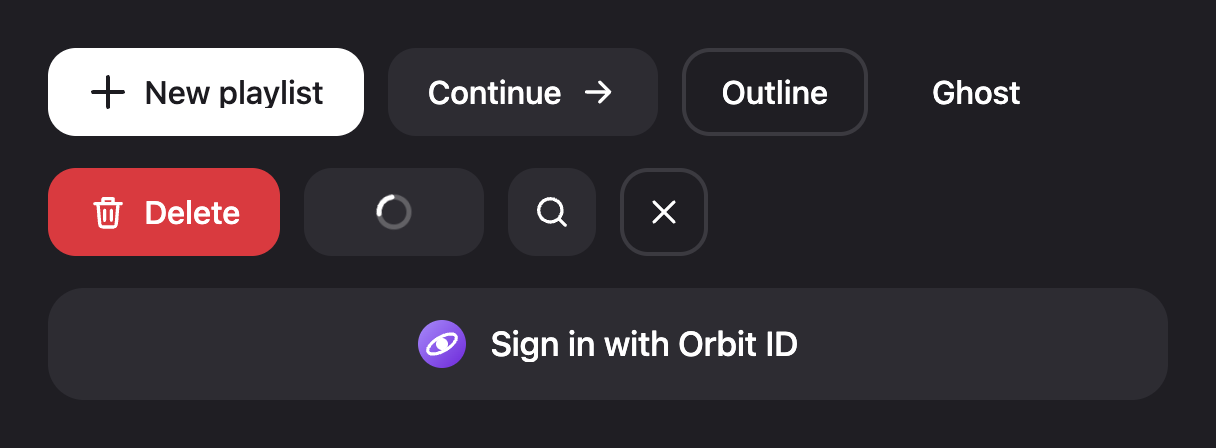
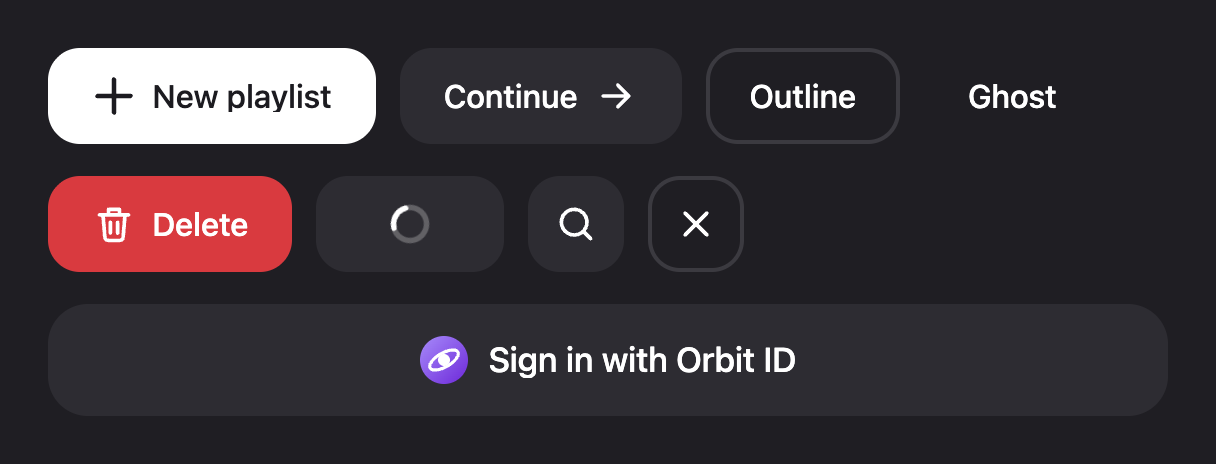
Unify control sizes on one scale
Inputs, buttons and segmented controls of the same size had different
heights and radii (48, 44 and 40px at md), so they did not line up in
a row. All three now follow the Input scale: 40, 48 and 56px with 12,
16 and 20px radii and matching icon sizes. Code cells get round heights,
the smallest secondary text is raised to 14px, and the default skeleton
radius matches other surfaces. The scale is documented on the theming
page with a Sizing example.

diff --git a/src/docs/Sizing.stories.tsx b/src/docs/Sizing.stories.tsx
@@ -1,0 +1,47 @@
+import type { Meta, StoryObj } from '@storybook/react-vite';
+import { PlusIcon, SearchIcon } from '../icons';
+import { Button, IconButton } from '../components/Button';
+import { Chip } from '../components/Chip';
+import { CodeInput } from '../components/CodeInput';
+import { Input } from '../components/Input';
+import { SegmentedControl } from '../components/SegmentedControl';
+
+const meta = {
+  title: 'Examples/Sizing',
+  tags: ['!autodocs'],
+} satisfies Meta;
+
+export default meta;
+
+const sizes = ['sm', 'md', 'lg'] as const;
+const row = { display: 'flex', gap: 12, alignItems: 'center', flexWrap: 'wrap' } as const;
+
+export const ControlsInARow: StoryObj = {
+  render: () => (
+    <div style={{ display: 'flex', flexDirection: 'column', gap: 20 }}>
+      {sizes.map((size) => (
+        <div key={size} style={row}>
+          <Input size={size} placeholder={`Input ${size}`} startIcon={<SearchIcon />} />
+          <Button size={size} startIcon={<PlusIcon />}>
+            Button
+          </Button>
+          <IconButton size={size} aria-label="Add" icon={<PlusIcon />} />
+          <SegmentedControl
+            size={size}
+            aria-label="Period"
+            options={[
+              { value: 'week', label: 'Week' },
+              { value: 'month', label: 'Month' },
+            ]}
+          />
+        </div>
+      ))}
+      <div style={row}>
+        <CodeInput aria-label="Code" length={4} defaultValue="12" />
+        <Input placeholder="Input md" />
+        <Chip>Chip md</Chip>
+        <Chip size="sm">Chip sm</Chip>
+      </div>
+    </div>
+  ),
+};

diff --git a/src/components/Button/Button.css b/src/components/Button/Button.css
@@ -1,10 +1,10 @@
 .vui-button {
-  --vui-button-height: 44px;
-  --vui-button-padding-x: 18px;
-  --vui-button-radius: 14px;
+  --vui-button-height: 48px;
+  --vui-button-padding-x: 20px;
+  --vui-button-radius: 16px;
   --vui-button-gap: 8px;
   --vui-button-font-size: 16px;
-  --vui-button-icon-size: 20px;
+  --vui-button-icon-size: 22px;
   --vui-button-bg: var(--vui-color-accent);
   --vui-button-bg-hover: var(--vui-color-accent-hover);
   --vui-button-color: var(--vui-color-accent-text);
@@ -41,19 +41,19 @@
 }
 
 .vui-button--sm {
-  --vui-button-height: 36px;
-  --vui-button-padding-x: 14px;
+  --vui-button-height: 40px;
+  --vui-button-padding-x: 16px;
   --vui-button-radius: 12px;
   --vui-button-gap: 6px;
-  --vui-button-font-size: 14px;
-  --vui-button-icon-size: 18px;
+  --vui-button-font-size: 15px;
+  --vui-button-icon-size: 20px;
 }
 
 .vui-button--lg {
   --vui-button-height: 56px;
   --vui-button-padding-x: 24px;
-  --vui-button-radius: 18px;
-  --vui-button-gap: 12px;
+  --vui-button-radius: 20px;
+  --vui-button-gap: 10px;
   --vui-button-font-size: 17px;
   --vui-button-icon-size: 24px;
 }

diff --git a/src/components/SegmentedControl/SegmentedControl.css b/src/components/SegmentedControl/SegmentedControl.css
@@ -1,9 +1,9 @@
 .vui-segmented {
-  --vui-segmented-height: 40px;
+  --vui-segmented-height: 48px;
   --vui-segmented-padding: 4px;
-  --vui-segmented-radius: 14px;
+  --vui-segmented-radius: 16px;
   --vui-segmented-font-size: 15px;
-  --vui-segmented-item-padding-x: 16px;
+  --vui-segmented-item-padding-x: 18px;
   --vui-segmented-track: var(--vui-color-surface);
   --vui-segmented-thumb: var(--vui-color-surface-raised);
 
@@ -20,18 +20,17 @@
 }
 
 .vui-segmented--sm {
-  --vui-segmented-height: 32px;
-  --vui-segmented-padding: 3px;
-  --vui-segmented-radius: 11px;
-  --vui-segmented-font-size: 13px;
-  --vui-segmented-item-padding-x: 12px;
+  --vui-segmented-height: 40px;
+  --vui-segmented-radius: 12px;
+  --vui-segmented-font-size: 14px;
+  --vui-segmented-item-padding-x: 14px;
 }
 
 .vui-segmented--lg {
-  --vui-segmented-height: 48px;
-  --vui-segmented-radius: 16px;
+  --vui-segmented-height: 56px;
+  --vui-segmented-radius: 20px;
   --vui-segmented-font-size: 16px;
-  --vui-segmented-item-padding-x: 20px;
+  --vui-segmented-item-padding-x: 22px;
 }
 
 .vui-segmented--block {

diff --git a/src/components/CodeInput/CodeInput.css b/src/components/CodeInput/CodeInput.css
@@ -1,7 +1,8 @@
 .vui-code {
   --vui-code-cell-size: 48px;
+  --vui-code-cell-height: 56px;
   --vui-code-gap: 8px;
-  --vui-code-radius: 14px;
+  --vui-code-radius: 16px;
   --vui-code-font-size: 22px;
 
   position: relative;
@@ -13,8 +14,9 @@
 
 .vui-code--lg {
   --vui-code-cell-size: 56px;
+  --vui-code-cell-height: 64px;
   --vui-code-gap: 10px;
-  --vui-code-radius: 16px;
+  --vui-code-radius: 20px;
   --vui-code-font-size: 26px;
 }
 
@@ -48,7 +50,7 @@
   justify-content: center;
   box-sizing: border-box;
   width: var(--vui-code-cell-size);
-  height: calc(var(--vui-code-cell-size) * 1.15);
+  height: var(--vui-code-cell-height);
   border: 2px solid transparent;
   border-radius: var(--vui-code-radius);
   background: var(--vui-color-surface);

diff --git a/src/components/SegmentedControl/SegmentedControl.tsx b/src/components/SegmentedControl/SegmentedControl.tsx
@@ -35,7 +35,7 @@ export interface SegmentedControlProps extends Omit<
   /** Имя для форм. По умолчанию генерируется. */
   name?: string;
   /**
-   * Высота: 32, 40 или 48 px.
+   * Высота: 40, 48 или 56 px.
    * @default md
    */
   size?: 'sm' | 'md' | 'lg';

diff --git a/src/components/Skeleton/Skeleton.css b/src/components/Skeleton/Skeleton.css
@@ -6,7 +6,7 @@
   flex: none;
   width: var(--vui-skeleton-width, 100%);
   height: var(--vui-skeleton-height, 16px);
-  border-radius: var(--vui-skeleton-radius, 12px);
+  border-radius: var(--vui-skeleton-radius, 16px);
   background: var(--vui-skeleton-base);
 }
 

diff --git a/src/components/Button/IconButton.tsx b/src/components/Button/IconButton.tsx
@@ -21,7 +21,7 @@ interface IconButtonOwnProps {
    */
   variant?: ButtonVariant;
   /**
-   * Сторона квадрата: 36, 44 или 56 px.
+   * Сторона квадрата: 40, 48 или 56 px.
    * @default md
    */
   size?: ButtonSize;

diff --git a/src/components/List/List.css b/src/components/List/List.css
@@ -69,7 +69,7 @@
   --vui-list-item-gap: 12px;
   --vui-list-item-padding-y: 8px;
   --vui-list-item-title-size: 15px;
-  --vui-list-item-subtitle-size: 13px;
+  --vui-list-item-subtitle-size: 14px;
 }
 
 .vui-list-item--lg {

diff --git a/src/components/Checkbox/Checkbox.css b/src/components/Checkbox/Checkbox.css
@@ -127,7 +127,7 @@
 
 .vui-check__description {
   color: var(--vui-color-text-muted);
-  font-size: calc(var(--vui-check-font-size) - 2px);
+  font-size: calc(var(--vui-check-font-size) - 1px);
 }
 
 .vui-check--disabled {

diff --git a/src/components/Button/Button.tsx b/src/components/Button/Button.tsx
@@ -20,7 +20,7 @@ interface ButtonOwnProps {
    */
   variant?: ButtonVariant;
   /**
-   * Высота: 36, 44 или 56 px.
+   * Высота: 40, 48 или 56 px.
    * @default md
    */
   size?: ButtonSize;

diff --git a/src/components/TileButton/TileButton.css b/src/components/TileButton/TileButton.css
@@ -35,7 +35,7 @@
   --vui-tile-radius: 26px;
   --vui-tile-border-width: 2px;
   --vui-tile-gap: 8px;
-  --vui-tile-font-size: 13px;
+  --vui-tile-font-size: 14px;
 }
 
 .vui-tile--md {

diff --git a/src/components/Textarea/Textarea.css b/src/components/Textarea/Textarea.css
@@ -43,6 +43,6 @@
   flex: none;
   margin-left: auto;
   color: var(--vui-color-text-muted);
-  font-size: 13px;
+  font-size: 14px;
   font-variant-numeric: tabular-nums;
 }
